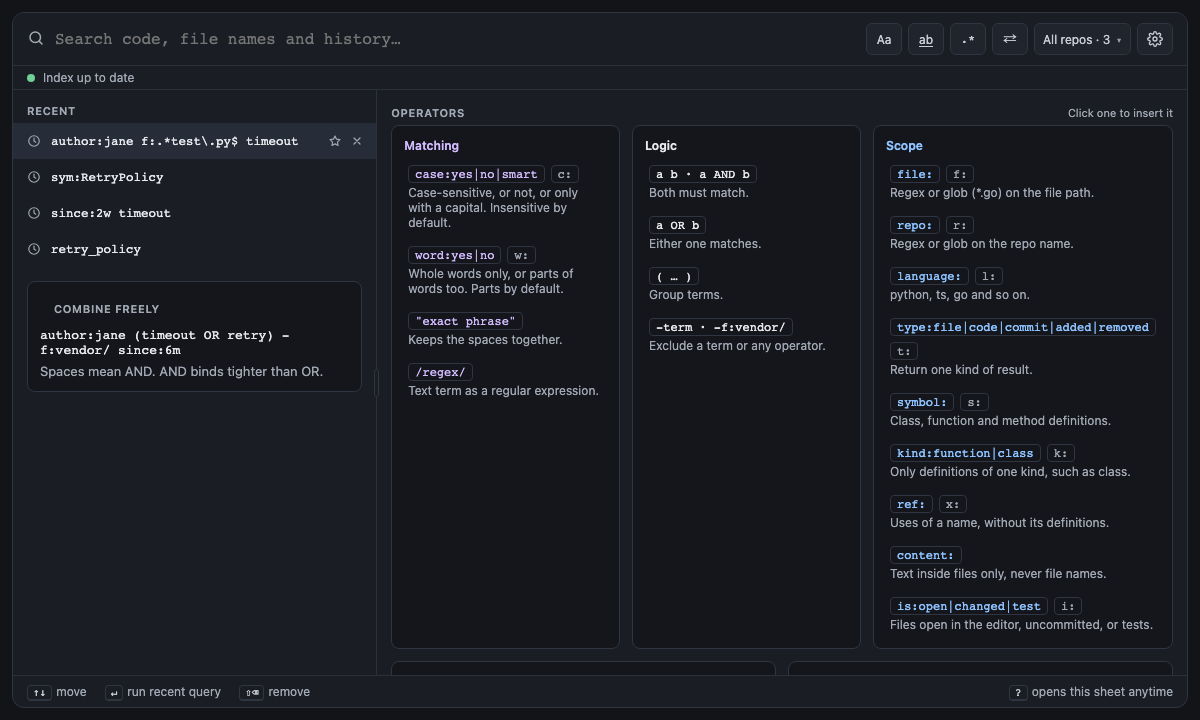
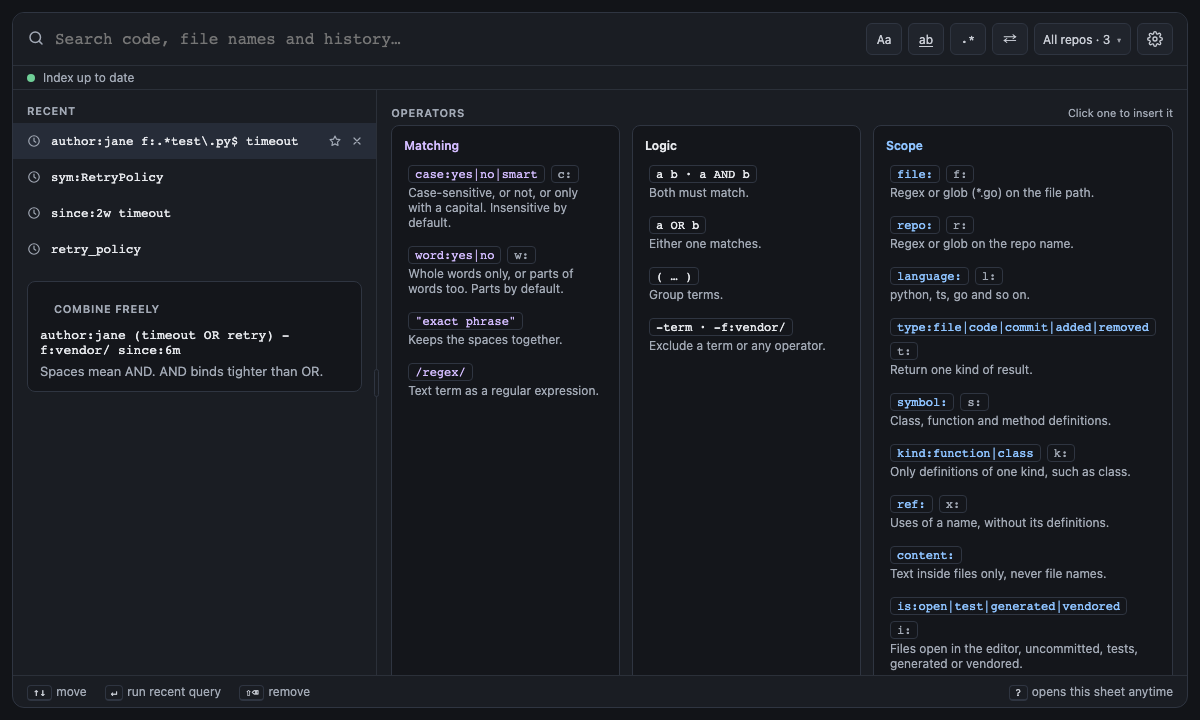
fix(webview): keep the is: label short enough for the operator sheet
Listing all five states widened the Scope card until the sheet fell back
to two columns. The label names four, and the summary all five.

Changed region(s): [[0.74, 0.825, 0.9558, 0.9472]]

diff --git a/webview/src/operators.ts b/webview/src/operators.ts
@@ -178,7 +178,7 @@ export const OPERATOR_GROUPS: OperatorGroup[] = [
       },
       {
         operator: "is",
-        label: "is:open|changed|test|generated|vendored",
+        label: "is:open|test|generated|vendored",
         insert: "is:",
         summary: "Files open in the editor, uncommitted, tests, generated or vendored.",
         description:
